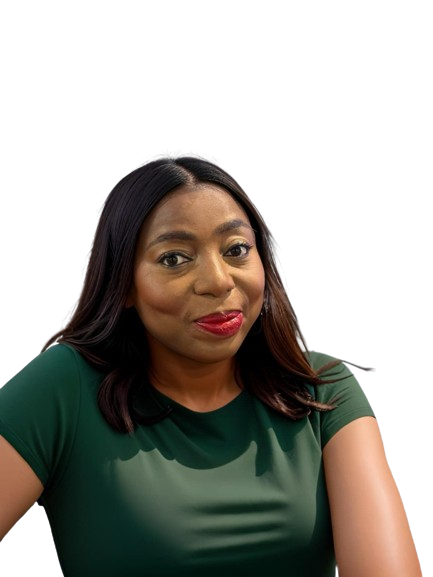
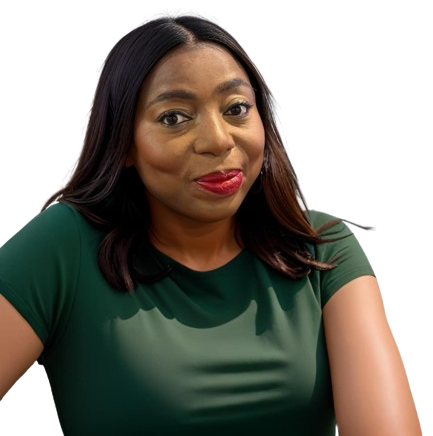
adjusted bio and about image

diff --git a/public/css/styles.css b/public/css/styles.css
@@ -413,6 +413,7 @@ iframe {
 
 .about-img {
   width: 100%;
+  margin-top: 30px;
 }
 
 /* Bio Page */
@@ -469,7 +470,6 @@ h1 {
 }
 
 .profile-image img {
-  height: 15rem;
   width: 100%;
   border-radius: 50%;
   border: 5px solid var(--secondary-color);
